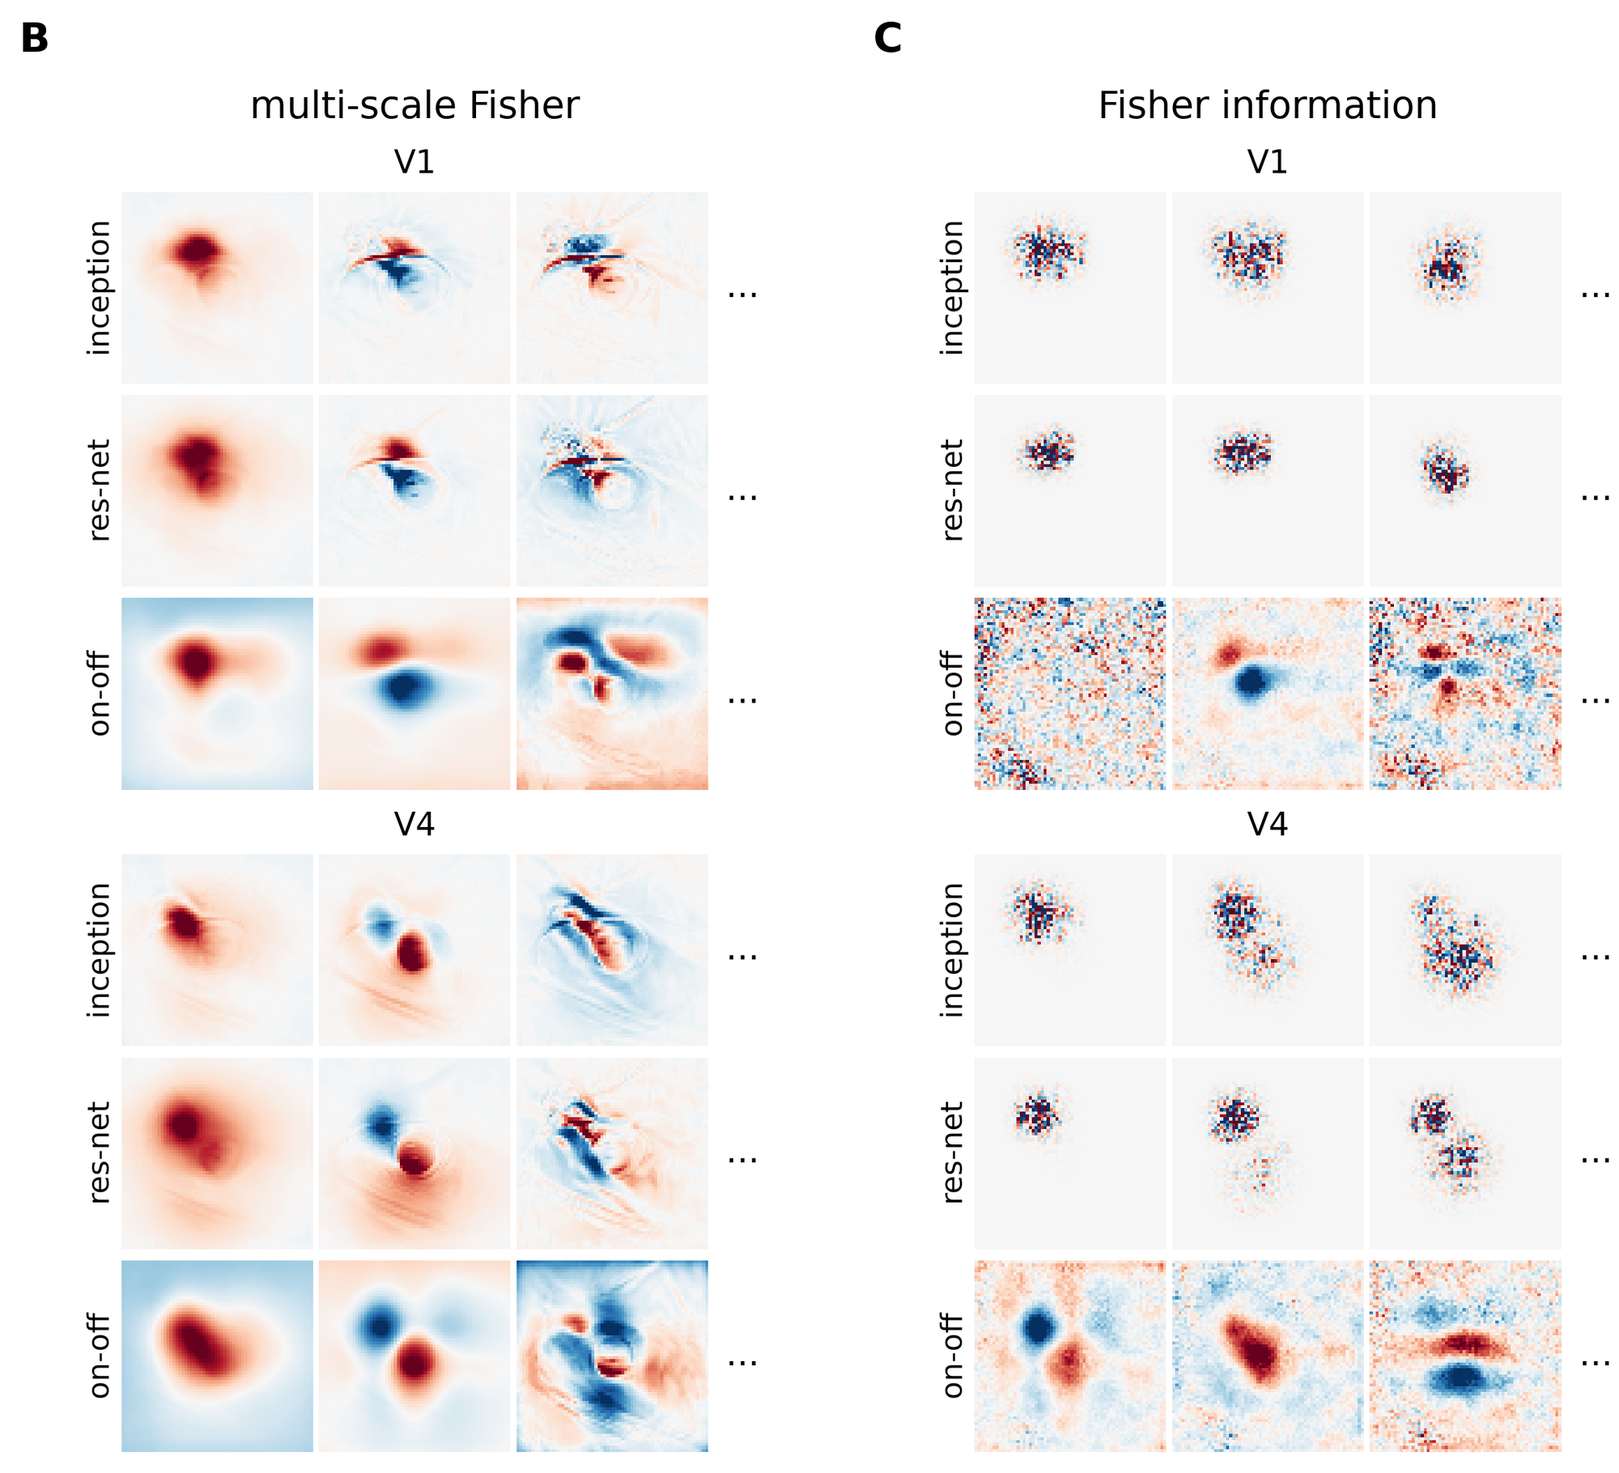
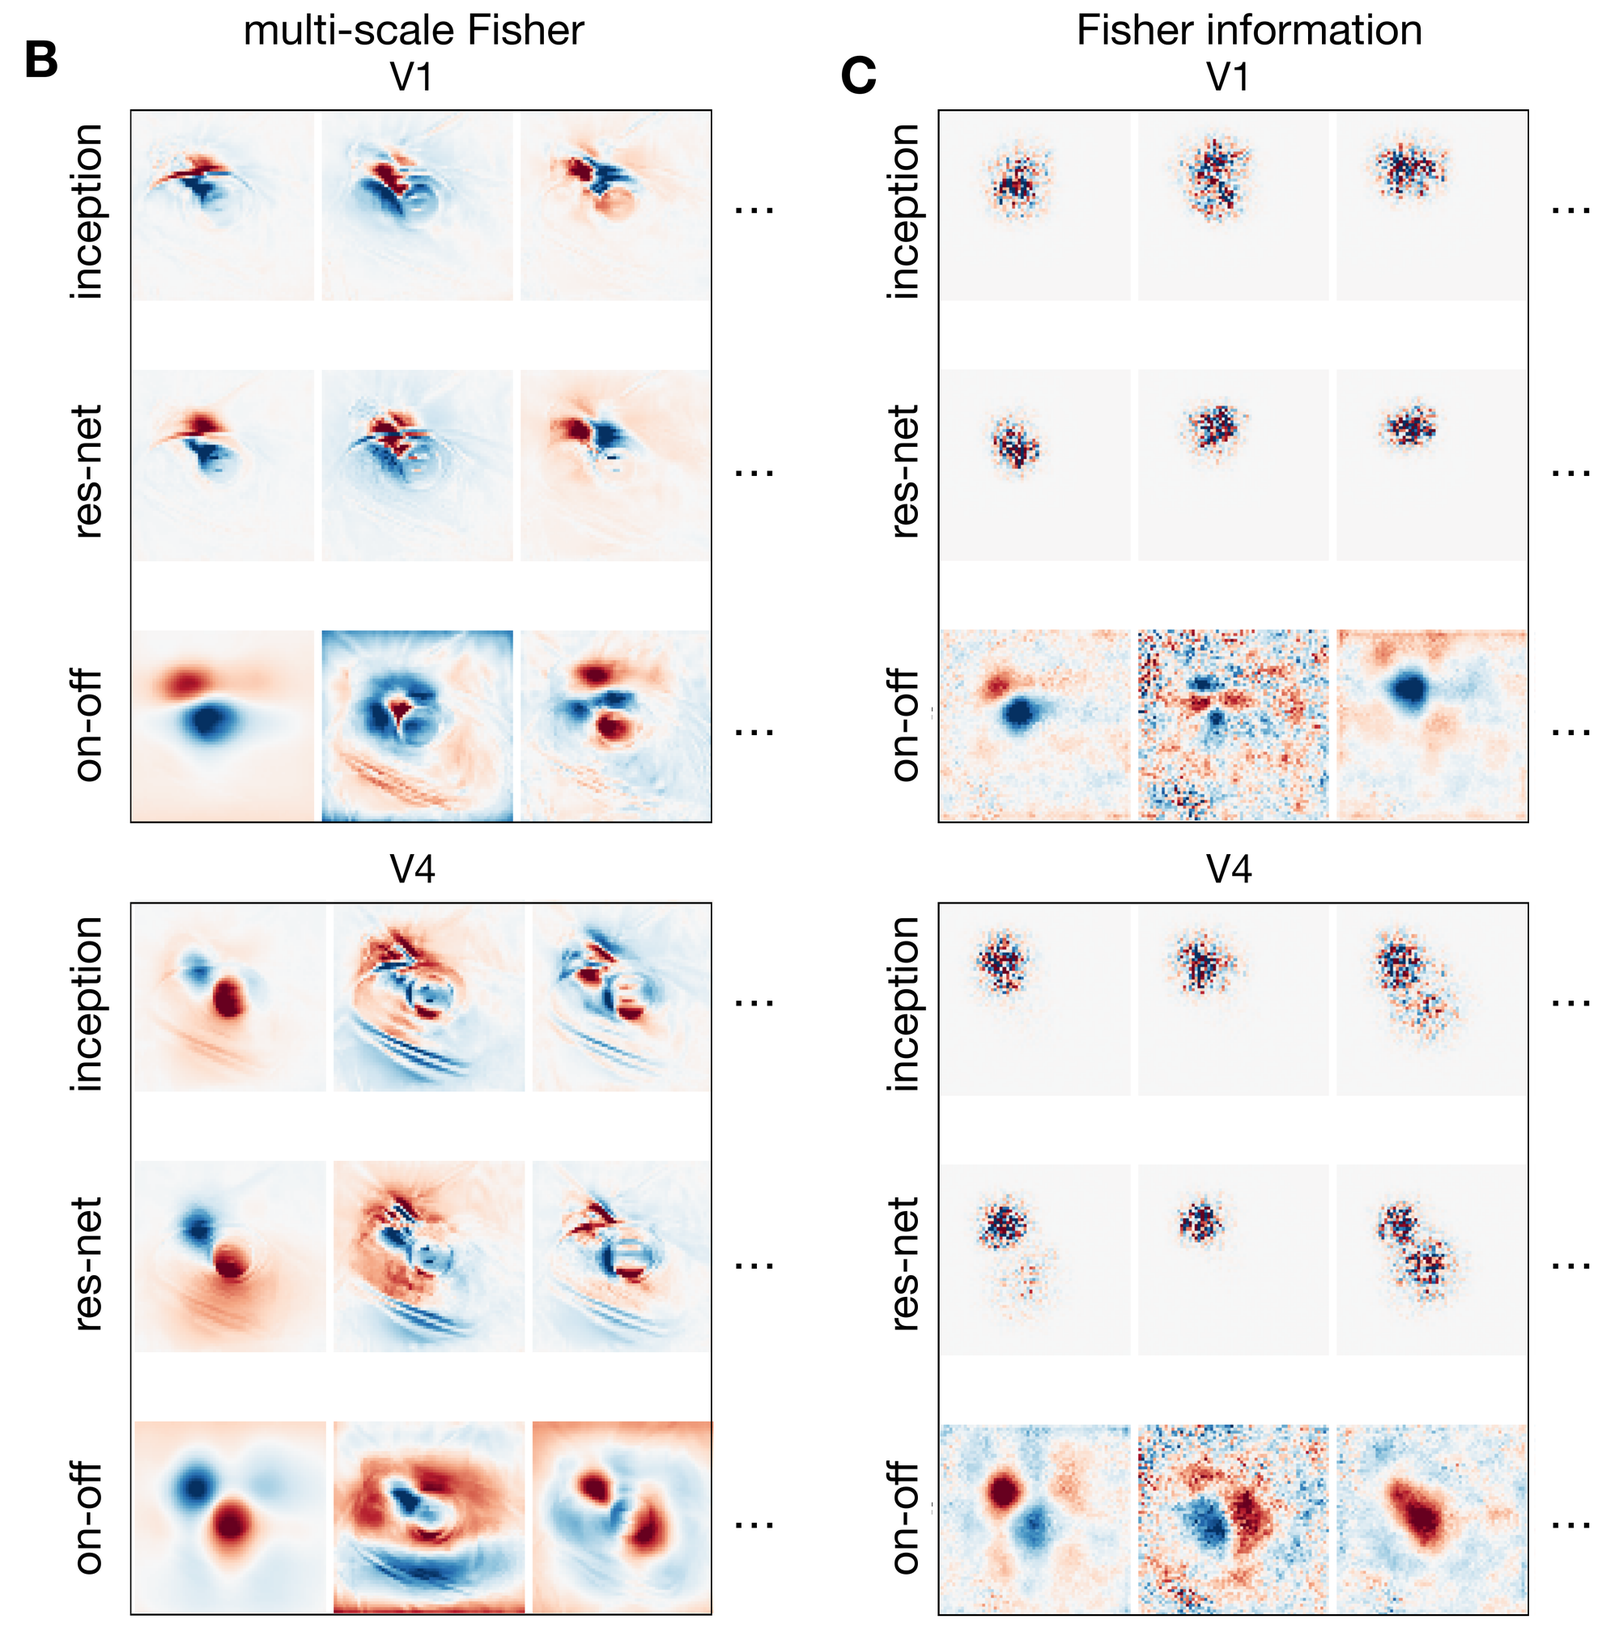
Page text, figures and code-section layout matched to the camera-ready paper
Results figures re-cropped from the camera-ready Figs. 3-5 and the Bures-Wasserstein appendix figure (same
panels as before); captions follow the camera-ready text (Fig. 3 eigenvectors, Fig. 5 fixed 1% steps along each
metric's eigenvectors, Inception blue / ResNet-50 orange). Abstract from the camera-ready. Copy-edit pass on
the page text. 'Use it on your own model': notebooks as a row of cards below the code.

diff --git a/index.html b/index.html
@@ -91,8 +91,7 @@
         <span id="t-img-count">Image 1 of 1</span>
         <button id="t-next" class="chip" aria-label="Next image">▸</button>
       </div>
-      <p class="demo-note" id="t-note">The leading eigenvectors of the multi-scale metric change the image in ways natural images vary: local
-        brightness over the receptive fields, then edges and the outline of the eye. Those of the Fisher information add
+      <p class="demo-note" id="t-note">The leading eigenvectors of the multi-scale metric change the image the way natural images vary. Those of the Fisher information add
         high-frequency noise, which natural images rarely contain.</p>
     </div>
   </div>
@@ -103,9 +102,9 @@
   <div class="wrap three">
     <div><h3>Exact link to information</h3><p>Averaged over stimuli, half the trace of the metric equals the mutual information:
       $I(R;X) = \tfrac12\langle \operatorname{tr} G(x)\rangle$.</p></div>
-    <div><h3>Derived from first principles</h3><p>The metric follows from how the geometry changes for an observer who sees only a blurred version of the stimulus. Coarse-grain the stimulus by adding Gaussian noise. Up to a constant factor, this
-      is the only metric that contracts at a rate set by the local response distribution and by what the responses encode.
-      It is also zero when the responses carry no information about the stimulus.</p></div>
+    <div><h3>Derived from first principles</h3><p>The metric follows from how distances should shrink as the stimulus is blurred by additive Gaussian noise. For this
+      coarse-graining, it is the only metric, up to a constant, that contracts at a rate set by the local response
+      distribution and by what the responses encode, and that is zero when the responses carry no information.</p></div>
     <div><h3>Practical for natural images</h3><p>A conditional diffusion model gives Monte Carlo estimates of the metric's leading
       eigenvectors for 64&times;64-pixel images. In V1 and V4 they are robust to differences in the encoding model fitted to the
       same area; those of the Fisher information are not.</p></div>
@@ -143,13 +142,12 @@
       same way to stimuli on either side of its peak, so it carries less mutual information (<b class="pref" data-panel="w-mi" tabindex="0">Mutual information</b> panel). The low-gain neuron has a quarter of
       the monotonic neuron's Fisher information everywhere, the least of the three, but it carries more mutual information than
       the single-peaked one.</p>
-    <p>The multi-scale metric captures both orderings. It coarse-grains the stimulus by adding Gaussian noise of variance $t$,
+    <p>The multi-scale metric ranks the three neurons as their mutual information does. It coarse-grains the stimulus by adding Gaussian noise of variance $t$,
       $x_t = x+\sqrt{t}\,z$. At each scale it takes the Fisher information $J_t$ of the coarse-grained likelihood
       $p_t(r\mid x_t)$ and averages it over the noisy stimuli. It then integrates over all scales:
       $$G(x)=\int_0^\infty \big\langle J_t(x_t)\big\rangle_{x_t\sim\mathcal N(x,\,t)}\,dt .$$
       For $t>0$, $J_t$ depends on the responses to neighbouring stimuli within about $\sqrt t$ and on the stimulus distribution,
-      so $G$ reflects global as well as local structure. Distances under $G$ rank the three neurons as their mutual information
-      does. The identity $I(R;X)=\tfrac12\langle G(x)\rangle_{p(x)}$ also holds numerically: in the <b class="pref" data-panel="w-mi" tabindex="0">Mutual information</b> panel the bars show the mutual information
+      so $G$ reflects global as well as local structure. The identity $I(R;X)=\tfrac12\langle G(x)\rangle_{p(x)}$ also holds numerically: in the <b class="pref" data-panel="w-mi" tabindex="0">Mutual information</b> panel the bars show the mutual information
       and the black ticks $\tfrac12\langle G\rangle$.</p>
     <p>The <b class="pref" data-panel="w-dist" tabindex="0">Distance</b> panel is the arc length from $x_0=-4$ to $x$ under a metric $g$:
       $$d(x_0,x)=\int_{x_0}^{x}\sqrt{g(u)}\,du,\qquad
@@ -163,22 +161,22 @@
   <div class="wrap two">
     <div>
       <h2>Estimating it for images</h2>
-      <p>For natural images the coarse-grained likelihood $p_t(r\mid x_t)$ averages over every image that could have produced the
-        noisy image $x_t$, which cannot be computed directly. A conditional diffusion model, trained to denoise images given neural
-        responses, gives the posterior mean $\hat x(x_t, r)=\mathbb E[x\mid x_t, r]$. Using Tweedie's identity,
-        $J_t(x_t)=\tfrac{1}{2t^2}\,\mathbb E\big[(\hat x(x_t,r)-\hat x(x_t,r'))(\hat x(x_t,r)-\hat x(x_t,r'))^\top\big]$ for two
-        independent responses $r, r'$. Responses are drawn at the denoised image $\hat x(x_t)$, an approximation that is most
-        accurate at fine scales. Averaging over scales, noisy images and response pairs gives a low-rank factor of $G(x)$ whose
-        singular vectors are its leading eigenvectors (Algorithm 1 of the paper).</p>
+      <p>For natural images, $p_t(r\mid x_t)$ averages over every image that could have produced the noisy image $x_t$ and
+        cannot be computed directly. A conditional diffusion model trained to denoise images given neural responses gives the
+        posterior mean $\hat x(x_t, r)=\mathbb E[x\mid x_t, r]$, and by Tweedie's identity
+        $J_t(x_t)=\tfrac{1}{2t^2}\,\mathbb E[\Delta\Delta^\top]$ with $\Delta=\hat x(x_t,r)-\hat x(x_t,r')$ for two independent
+        responses $r, r'$. Responses are drawn at the denoised image $\hat x(x_t)$, an approximation most accurate at fine
+        scales. Averaging over scales, noisy images and response pairs gives a low-rank factor of $G(x)$ whose singular vectors
+        are its leading eigenvectors (Algorithm 1 of the paper).</p>
     </div>
     <div>
       <h2>Applied to macaque V1 and V4</h2>
-      <p>Multi-unit activity recorded with Utah arrays in V1 and V4 of one macaque (one of the two in the dataset) during viewing
-        of 22,248 natural images from THINGS (Papale et al. 2025); the 50 most reliable channels per area. Each area is modelled by frozen ImageNet-trained features
-        (InceptionV3 or ResNet-50) with a per-channel spatial readout and Gaussian response noise close to the trial-to-trial
-        variability ($\sigma=0.22$). Test correlations are 0.75 (V1) and 0.71 (V4) for Inception, 0.78 and 0.70 for ResNet-50.
-        One conditional diffusion model is trained per area and encoder, on 100,000 grayscale 64&times;64 TinyImageNet images, each
-        paired with the encoder's predicted responses plus noise of the same $\sigma$.</p>
+      <p>We used multi-unit activity from Utah arrays in V1 and V4 of one of the two macaques of Papale et al. (2025), viewing
+        22,248 natural images from THINGS, and kept the 50 most reliable channels per area. Each area is modelled by frozen
+        ImageNet-trained features (InceptionV3 or ResNet-50), a per-channel spatial readout and Gaussian response noise close to
+        the trial-to-trial variability <span class="nowrap">($\sigma=0.22$)</span>; test correlations are 0.75 (V1) and 0.71 (V4) for Inception, 0.78 and
+        0.70 for ResNet-50. One conditional diffusion model per area and encoder is trained on 100,000 grayscale 64&times;64
+        TinyImageNet images, each paired with the encoder's predicted responses plus noise of the same $\sigma$.</p>
     </div>
   </div>
 </section>
@@ -189,14 +187,14 @@
     <h2>Results</h2>
     <div class="rcard">
       <div class="rtext"><h3>Different features in V1 and V4</h3>
-        <p>The leading eigenvectors of $G(x)$ are image changes of the kind natural images contain. The first is a local change of
-          brightness over the receptive fields. The next ones are edges and fine detail in V1, and broader changes that follow
-          the object's shape in V4. The leading eigenvectors of the Fisher information resemble high-frequency noise confined to
-          the receptive fields, with no clear difference between the two areas.</p></div>
+        <p>The leading eigenvectors of $G(x)$ are image changes of the kind natural images contain. In V1 they are localized and
+          edge-like and carry fine detail; in V4 they are broader and follow the object's shape. The leading eigenvectors of the
+          Fisher information resemble high-frequency noise confined to the receptive fields, with nearly the same spatial
+          frequency in the two areas.</p></div>
       <img src="docs/assets/images/cfg200/fig3_def.png" alt="Example image with V1 and V4 receptive fields and the leading four eigenvectors of G(x) and J(x)" loading="lazy">
     </div>
     <div class="rcard">
-      <div class="rtext"><h3>Constrained by the data, not by the model</h3>
+      <div class="rtext"><h3>Robust to the choice of encoding model</h3>
         <p>Two encoding models fitted to the same area agree on the leading eigenvectors of $G(x)$ more than one model fitted to
           the two areas. For the Fisher information the ordering reverses, so its leading eigenvectors depend more on the
           encoding model than on the recorded area. (Subspace alignment of the top $k$ eigenvectors, $k=2$ to 50, averaged over
@@ -204,10 +202,11 @@
       <img src="docs/assets/images/cfg200/fig4_de.png" alt="Subspace alignment of the top-k eigenvectors of G(x) and J(x) against k" loading="lazy">
     </div>
     <div class="rcard">
-      <div class="rtext"><h3>The same at every point of the field</h3>
-        <p>The reference image is perturbed along the two leading eigenvectors of $G(x)$, and at each perturbed image both metrics
-          are projected onto that plane. The multi-scale ellipses change smoothly and stay broadly consistent between the two
-          models (Inception solid, ResNet-50 dashed). The Fisher ellipses change rapidly and differ between models.</p></div>
+      <div class="rtext"><h3>Stable across nearby images</h3>
+        <p>The reference image is perturbed in fixed steps, 1% of its norm, along the two leading eigenvectors of each metric, and
+          at each perturbed image the metric is projected onto that plane. The multi-scale ellipses change little across the
+          plane and are nearly identical for the two models (Inception blue, ResNet-50 orange). The Fisher ellipses change
+          rapidly and differ between models.</p></div>
       <img src="docs/assets/images/cfg200/fig5.png" alt="Metric ellipses of G(x) and J(x) for two encoding models on a grid of perturbed images" loading="lazy">
     </div>
     <details class="more"><summary>More figures</summary>
@@ -228,10 +227,12 @@
   <div class="wrap">
     <h2>Explore the eigenvectors</h2>
     <p class="lead">Pick a held-out natural image. Rows: geometry, area and encoding model. Columns: the image and the four leading
-      eigenvectors of the Inception model (red and blue: opposite signs of the image change). Each ResNet-50 tile shows the
+      eigenvectors of the Inception model (red and blue: opposite signs of the image change). For the multi-scale metric
+      the first eigenvector, a broad brightness change over the receptive fields, is left out, as in the paper's figures.
+      Each ResNet-50 tile shows the
       ResNet-50 eigenvector (among its top 20) most similar to the Inception one above it, with its sign flipped to match
-      (eigenvectors are defined up to a sign). The multi-scale eigenvectors of the two models are similar; the Fisher ones are
-      not.</p>
+      (eigenvectors are defined up to a sign). For the multi-scale metric the two rows of each area look alike, for the Fisher
+      information they differ.</p>
     <div class="explorer card">
       <div class="thumbs" id="x-thumbs"></div>
       <div class="xview">
@@ -244,11 +245,10 @@
 
 <!-- ================================================================== CODE -->
 <section id="code" class="section">
-  <div class="wrap two">
-    <div>
-      <h2>Use it on your own model</h2>
-      <p>The <code>multigeom</code> package computes both metrics for any fitted PyTorch model of neural responses, and reproduces
-        the paper's analyses.</p>
+  <div class="wrap">
+    <h2>Use it on your own model</h2>
+    <p>The <code>multigeom</code> package computes both metrics for any fitted PyTorch model of neural responses, and reproduces
+      the paper's analyses.</p>
 <pre class="code"><code>pip install multigeom</code></pre>
 <pre class="code"><code>import multigeom
 
@@ -257,8 +257,7 @@ responses = encoder.predict(images)                          # [N, 50] predicted
 
 # The Fisher information J(x) of the encoder at an image x:
 fisher = multigeom.compute_fisher(image=x, encoder=encoder, sigma=0.22, top_k=10)</code></pre>
-      <p><a href="https://multigeom.github.io/multigeom/demos.html">Demo notebooks</a>, from the first call to the paper's figures.</p>
-    </div>
+    <p class="nbintro">The <a href="https://multigeom.github.io/multigeom/demos.html">demo notebooks</a> go from the first call to the paper's figures:</p>
     <div class="nbcards">
       <a class="nb" href="https://multigeom.github.io/multigeom/demos.html"><b>0</b><span>Use a fitted encoder: predict responses, compute J(x)</span></a>
       <a class="nb" href="https://multigeom.github.io/multigeom/demos.html"><b>1</b><span>Build and fit your own encoder</span></a>
@@ -275,16 +274,17 @@ fisher = multigeom.compute_fisher(image=x, encoder=encoder, sigma=0.22, top_k=10
       <p>Understanding how neural population responses represent sensory information is a central problem in systems neuroscience.
         One approach is to define a representational geometry on stimulus space in which distances reflect how reliably stimuli
         can be distinguished from neural activity. However, different constructions of these distances can lead to qualitatively
-        different conclusions about the neural code. Here, we show that a unique Riemannian representational geometry emerges from
-        first principles governing how distances contract as stimulus resolution is lost through coarse-graining. This results in
-        a multi-scale extension of the Fisher information metric, capturing encoding structure from fine stimulus details to coarse
-        global distinctions. The resulting geometry is exactly related to the mutual information encoded by the population: well
-        encoded stimulus directions, those contributing more to mutual information, are expanded, whereas poorly encoded
-        directions are contracted. The metric tensor can be estimated using diffusion models, making the framework practical for
-        large neural populations and high-dimensional stimuli. Applied to visual cortical responses to natural images, the
-        eigenvectors of the metric tensor identify stimulus variations that contribute most to information transmission, yielding
-        interpretable features that are robust to modelling choices. Together, these results provide a principled,
-        information-theoretic framework for characterising neural population codes.</p>
+        different conclusions about the neural code. Here, we show that, for a given coarse-graining of the stimulus, a unique
+        Riemannian representational geometry emerges from first principles governing how distances contract as stimulus
+        resolution is lost through coarse-graining. This results in a multi-scale extension of the Fisher information metric,
+        capturing encoding structure from fine stimulus details to coarse global distinctions. The resulting geometry is exactly
+        related to the mutual information encoded by the population: well encoded stimulus directions (those contributing
+        more to mutual information) are expanded, whereas poorly encoded directions are contracted. The metric tensor can be
+        estimated using diffusion models, making the framework practical for large neural populations and high-dimensional
+        stimuli. Applied to visual cortical responses to natural images, the eigenvectors of the metric tensor identify stimulus
+        variations that contribute most to the encoded stimulus information, yielding interpretable features that are robust to
+        modelling choices. Together, these results provide a principled, information-theoretic framework for characterising
+        neural population codes.</p>
     </details>
     <h2>Citation</h2>
     <div class="bib">

diff --git a/static/css/landing.css b/static/css/landing.css
@@ -58,6 +58,7 @@ h1 { font-size: clamp(1.7rem, 3.2vw, 2.5rem); letter-spacing: -.01em; }
 h2 { font-size: clamp(1.4rem, 2.4vw, 1.9rem); }
 h3 { font-size: 1.15rem; }
 p { margin: 0 0 1em; }
+.nowrap { white-space: nowrap; }
 code, pre, .mono { font-family: "JetBrains Mono", ui-monospace, monospace; font-size: .88em; }
 .card { background: var(--card); border: 1px solid var(--line); border-radius: 14px; box-shadow: var(--shadow); }
 
@@ -167,11 +168,12 @@ details summary { cursor: pointer; font-weight: 600; }
 /* code */
 pre.code, .bib pre { background: var(--code-bg); border: 1px solid var(--line); border-radius: 10px; padding: 14px 16px;
   overflow-x: auto; margin: 0 0 12px; }
-.nbcards { display: grid; gap: 10px; align-content: center; }
-.nb { display: flex; gap: 14px; align-items: center; background: var(--card); border: 1px solid var(--line); border-radius: 10px;
-  padding: 12px 14px; color: var(--ink); }
+.nbintro { margin-top: 20px; }
+.nbcards { display: grid; grid-template-columns: repeat(4, 1fr); gap: 12px; }
+.nb { display: flex; flex-direction: column; gap: 6px; background: var(--card); border: 1px solid var(--line); border-radius: 10px;
+  padding: 14px 16px; color: var(--ink); font-size: .93rem; line-height: 1.45; }
 .nb:hover { border-color: var(--accent); text-decoration: none; }
-.nb b { font-family: "JetBrains Mono", monospace; color: var(--accent); min-width: 34px; }
+.nb b { font-family: "JetBrains Mono", monospace; color: var(--accent); font-size: 1.1rem; }
 
 /* cite */
 details.abstract { max-width: 880px; margin-bottom: 30px; }
@@ -187,6 +189,7 @@ details.abstract p { color: var(--muted); margin-top: 12px; }
   .wgrid { grid-template-columns: 1fr 1fr; }
   .nav-links a { margin-left: 12px; }
   .thumbs { grid-template-columns: repeat(6, 1fr); }
+  .nbcards { grid-template-columns: 1fr 1fr; }
 }
 @media (max-width: 520px) {
   .nav-links { display: none; }
@@ -194,4 +197,5 @@ details.abstract p { color: var(--muted); margin-top: 12px; }
   .wgrid { grid-template-columns: 1fr; }
   .xcols, .xbody { grid-template-columns: 96px 1fr; }
   .thumbs { grid-template-columns: repeat(4, 1fr); }
+  .nbcards { grid-template-columns: 1fr; }
 }
